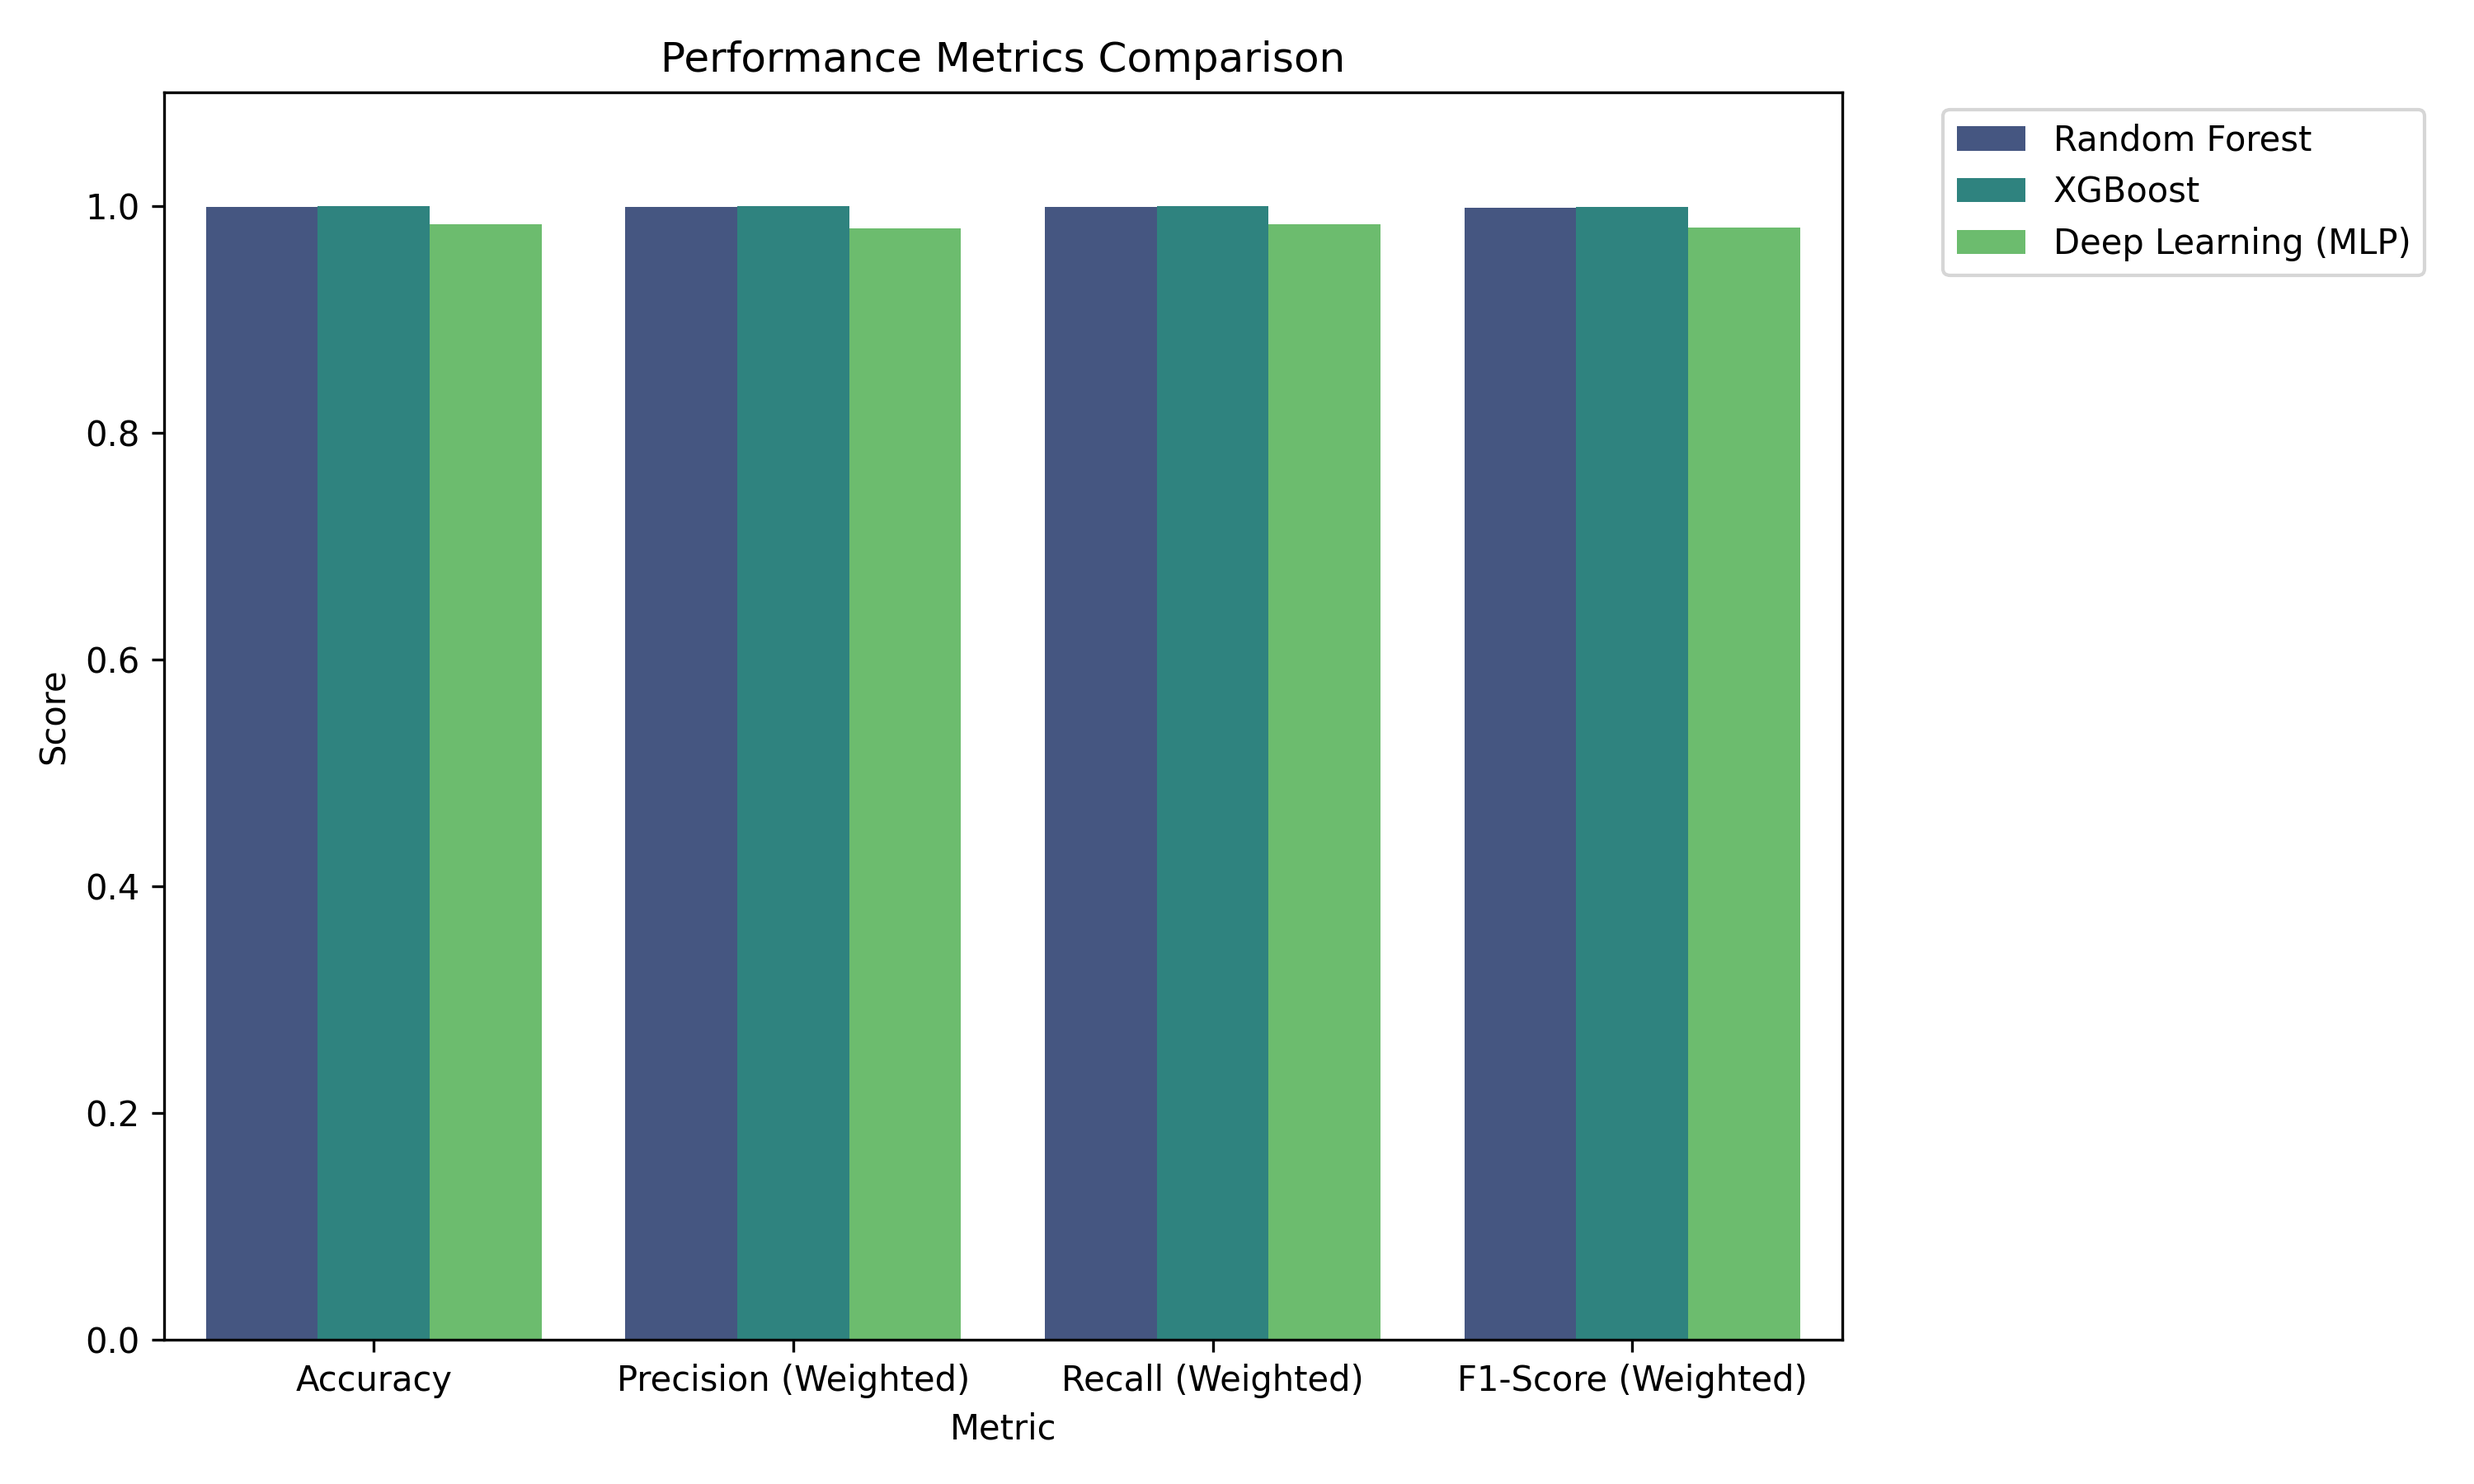
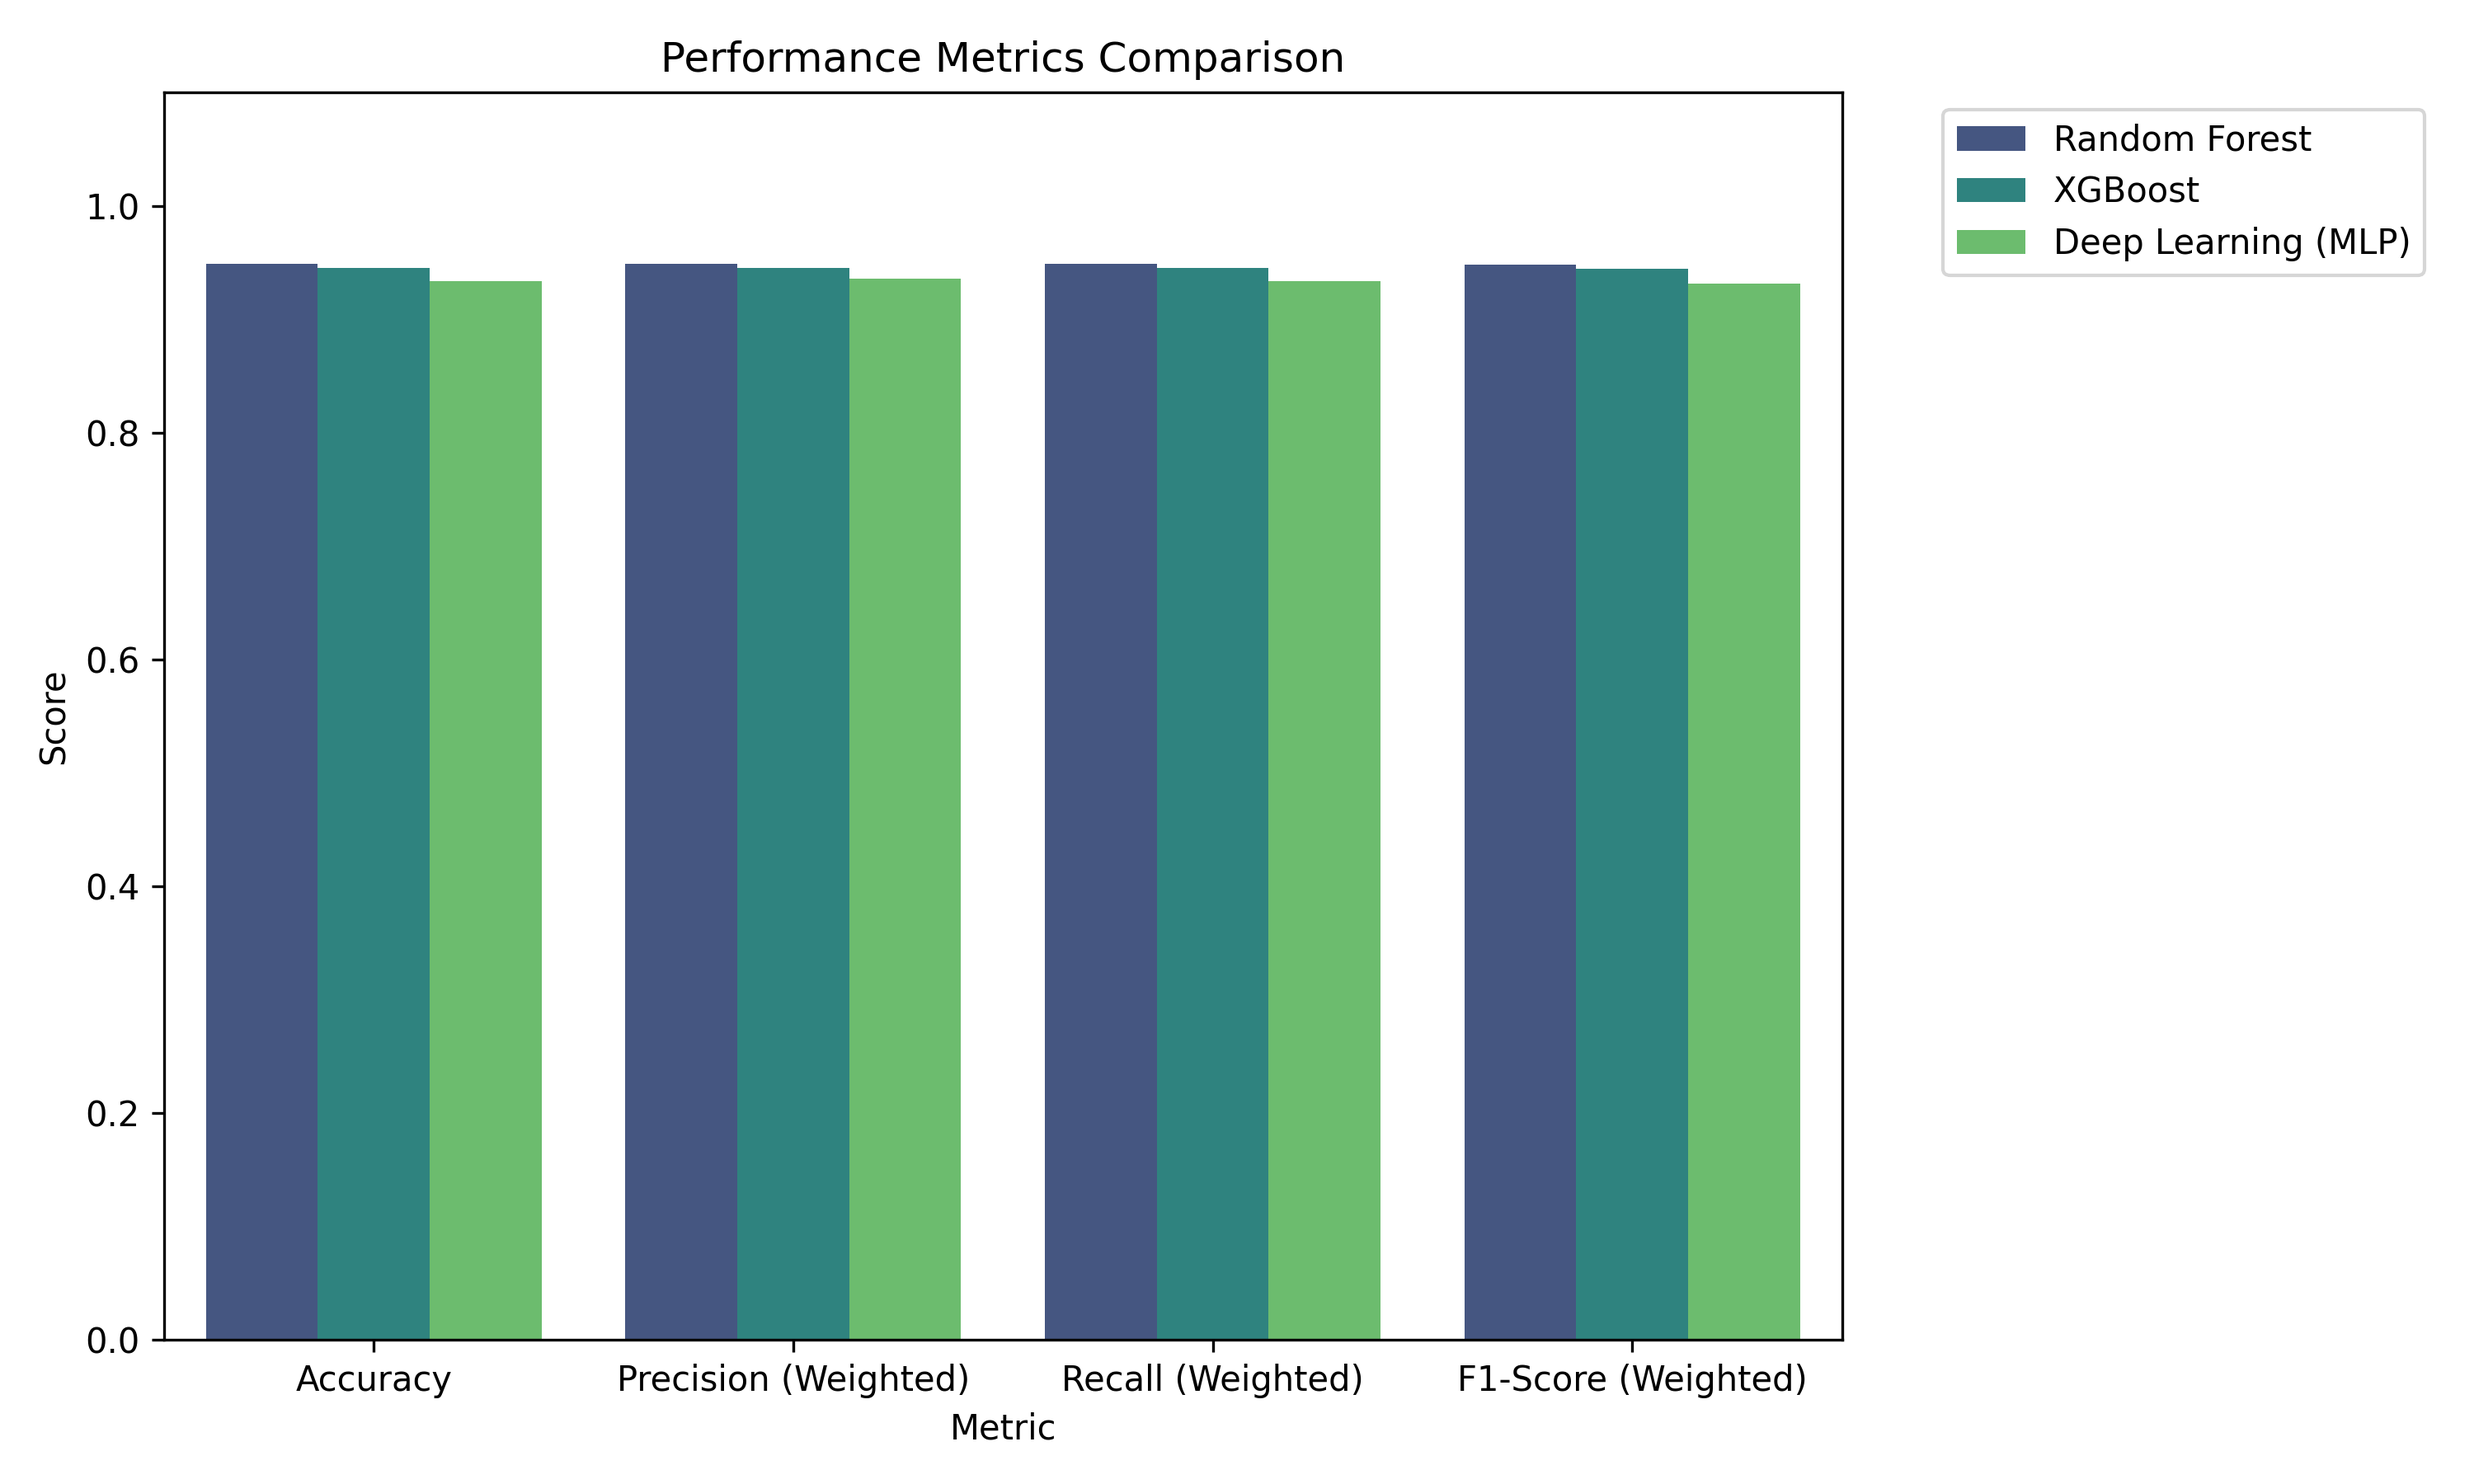
Update ML algorithms and charts with Gaussian realistic noise

Changed region(s): [[0.248, 0.1244, 0.558, 0.1867], [0.062, 0.1244, 0.217, 0.1867], [0.589, 0.1244, 0.744, 0.2178]]

diff --git a/ml/generate_dataset.py b/ml/generate_dataset.py
@@ -3,43 +3,78 @@ import numpy as np
 
 def generate_dataset(num_rows=5000, output_path='custom_dataset.csv'):
     np.random.seed(42)
+    
+    # Realistic probability distributions for human behavior
+    intents = np.random.choice(
+        ['passing_by', 'loitering', 'scouting', 'active_intrusion'], 
+        size=num_rows, 
+        p=[0.55, 0.25, 0.12, 0.08] # 55% normal, 25% loitering, 12% scouting, 8% invading
+    )
+    
     data = {
-        'speed_variance': np.random.uniform(0.0, 5.0, num_rows),
-        'distance_to_restricted_zone': np.random.uniform(0.0, 500.0, num_rows),
-        'time_near_boundary': np.random.randint(0, 121, num_rows),
-        'time_inside_zone': np.random.randint(0, 61, num_rows),
-        'sudden_stops': np.random.randint(0, 11, num_rows),
-        'carrying_baggage': np.random.choice([0, 1], num_rows),
-        'time_of_day_multiplier': np.random.uniform(1.0, 2.5, num_rows)
+        'speed_variance': np.zeros(num_rows),
+        'distance_to_restricted_zone': np.zeros(num_rows),
+        'time_near_boundary': np.zeros(num_rows),
+        'time_inside_zone': np.zeros(num_rows),
+        'sudden_stops': np.zeros(num_rows),
+        'carrying_baggage': np.random.choice([0, 1], num_rows, p=[0.8, 0.2]),
+        'time_of_day_multiplier': np.random.uniform(0.8, 2.0, num_rows)
     }
+    
+    scores = []
+    
+    # Inject Gaussian Noise and Overlaps for realistic confusion boundaries
+    for i, intent in enumerate(intents):
+        if intent == 'passing_by':
+            data['speed_variance'][i] = max(0, np.random.normal(4.0, 1.5))
+            data['distance_to_restricted_zone'][i] = max(10, np.random.normal(300, 120))
+            data['time_near_boundary'][i] = max(0, np.random.normal(5, 8))
+            data['time_inside_zone'][i] = 0
+            data['sudden_stops'][i] = max(0, int(np.random.normal(0, 1)))
+            base_score = np.random.normal(15, 10)
+            
+        elif intent == 'loitering':
+            data['speed_variance'][i] = max(0, np.random.normal(1.2, 0.9))
+            data['distance_to_restricted_zone'][i] = max(5, np.random.normal(70, 40))
+            data['time_near_boundary'][i] = max(10, np.random.normal(50, 25))
+            data['time_inside_zone'][i] = 0
+            data['sudden_stops'][i] = max(0, int(np.random.normal(2, 2)))
+            base_score = np.random.normal(50, 15)
+            
+        elif intent == 'scouting':
+            # Scouting looks like loitering but closer with more stops
+            data['speed_variance'][i] = max(0, np.random.normal(1.5, 1.2))
+            data['distance_to_restricted_zone'][i] = max(1, np.random.normal(25, 20))
+            data['time_near_boundary'][i] = max(20, np.random.normal(80, 30))
+            data['time_inside_zone'][i] = 0
+            data['sudden_stops'][i] = max(1, int(np.random.normal(5, 3)))
+            base_score = np.random.normal(75, 12)
+            
+        elif intent == 'active_intrusion':
+            data['speed_variance'][i] = max(0, np.random.normal(5.0, 2.5))
+            data['distance_to_restricted_zone'][i] = max(0, np.random.normal(0, 5)) # Might slightly glitch to outside bounds due to tracking noise
+            data['time_near_boundary'][i] = max(5, np.random.normal(20, 15))
+            data['time_inside_zone'][i] = max(1, np.random.normal(15, 10))
+            data['sudden_stops'][i] = max(0, int(np.random.normal(1, 2)))
+            base_score = np.random.normal(90, 8)
+            
+        # Add random systemic noise to simulate real-world CCTV tracking inaccuracies
+        data['speed_variance'][i] += np.random.normal(0, 0.5)
+        data['distance_to_restricted_zone'][i] += np.random.normal(0, 10)
+        
+        # Calculate Risk Score (with natural human variance)
+        final_risk = base_score * (1 + 0.15 * data['carrying_baggage'][i]) * data['time_of_day_multiplier'][i]
+        final_risk = max(0.0, min(100.0, final_risk + np.random.normal(0, 8)))
+        scores.append(round(final_risk, 2))
+        
     df = pd.DataFrame(data)
-    intents, scopes = [], []
-    for _, row in df.iterrows():
-        if row['time_inside_zone'] > 0:
-            intent = 'active_intrusion'
-        elif row['time_near_boundary'] > 20 and row['sudden_stops'] > 3:
-            intent = 'scouting'
-        elif row['time_near_boundary'] > 15:
-            intent = 'loitering'
-        else:
-            intent = 'passing_by'
-        intents.append(intent)
-        
-        raw_risk = (
-            row['speed_variance'] * 2.0 +
-            row['time_near_boundary'] * 1.5 +
-            row['sudden_stops'] * 3.0 +
-            row['carrying_baggage'] * 10.0
-        )
-        if row['distance_to_restricted_zone'] <= 0:
-            raw_risk += 85.0
-        
-        final_risk = min(100.0, raw_risk * row['time_of_day_multiplier'])
-        scopes.append(round(final_risk, 2))
-        
     df['intent_class'] = intents
-    df['historical_risk_score'] = scopes
+    df['historical_risk_score'] = scores
+    
+    # Shuffle dataset
+    df = df.sample(frac=1, random_state=42).reset_index(drop=True)
     df.to_csv(output_path, index=False)
+    print(f"[SUCCESS] Generated noisy realistic dataset at {output_path}")
 
 if __name__ == '__main__':
     generate_dataset()
